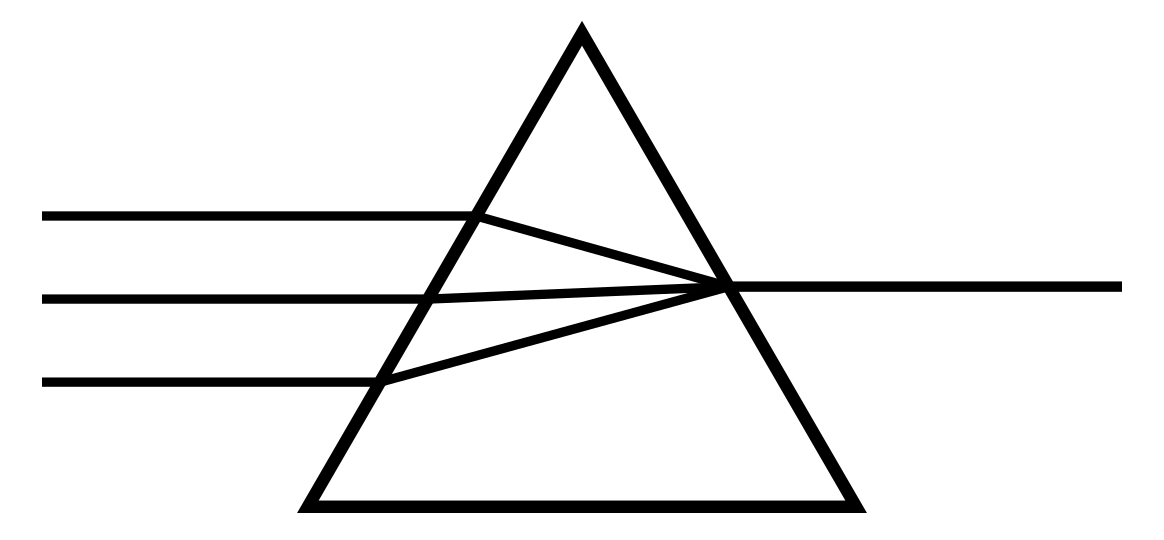
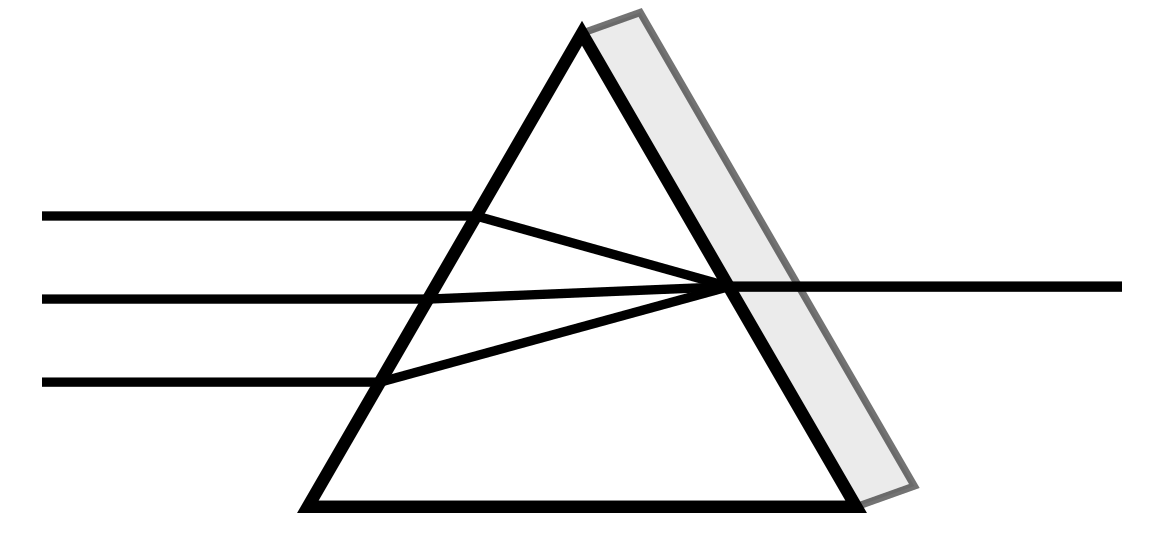
docs: add shallow prism depth; verify at 90 px

diff --git a/docs/assets/brand/README.md b/docs/assets/brand/README.md
@@ -4,7 +4,8 @@ Redrawn directly as SVG on 2026-09-09 after Ada supplied prism references. The l
 simple end-on triangular profile shown in the
 [Newton artwork](https://deltavcreations.com/portfolio/prism-light-spectrum-artwork-newton/).
 Three incoming rays meet at the right face and continue as one outgoing ray, following Ada's
-requested focus direction. The interior is transparent and every segment is straight.
+requested focus direction. The front interior is transparent and every segment is straight.
+A shallow side face adds depth, with a faint fill and lighter rear edges.
 
 ## Files and construction
 
@@ -20,6 +21,11 @@ The triangle vertices are (300, 36), (168, 264), and (432, 264). Each ray enters
 intersection with the left side. The shared exit is the intersection of the right side
 with y = 158. The SVG contains straight line segments only. Its viewBox preserves the
 drawing's proportions as it scales.
+
+The rear triangle is translated by (28, -10). Only the right side face is visible: its
+joining edges are parallel, and its rear edge is parallel to the front edge. The side
+fill uses 8% ink opacity and its far edges use 55%. The accepted front profile and all
+ray paths are unchanged.
 
 The root README selects a theme with a `<picture>` element and links to the preview.
 The artwork has no external images, fonts, or scripts.
